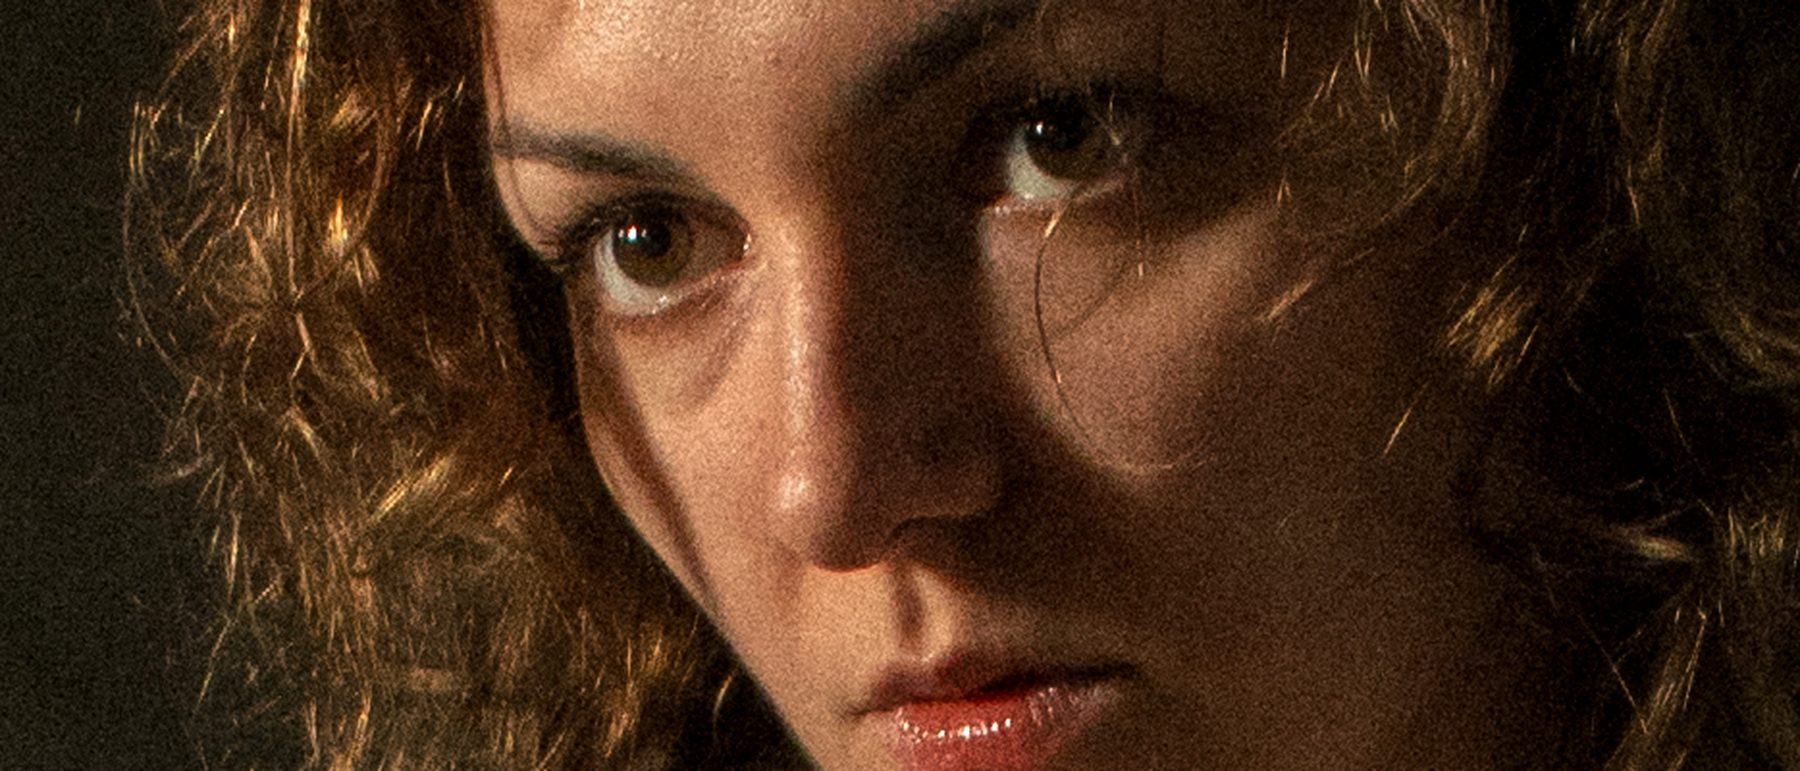
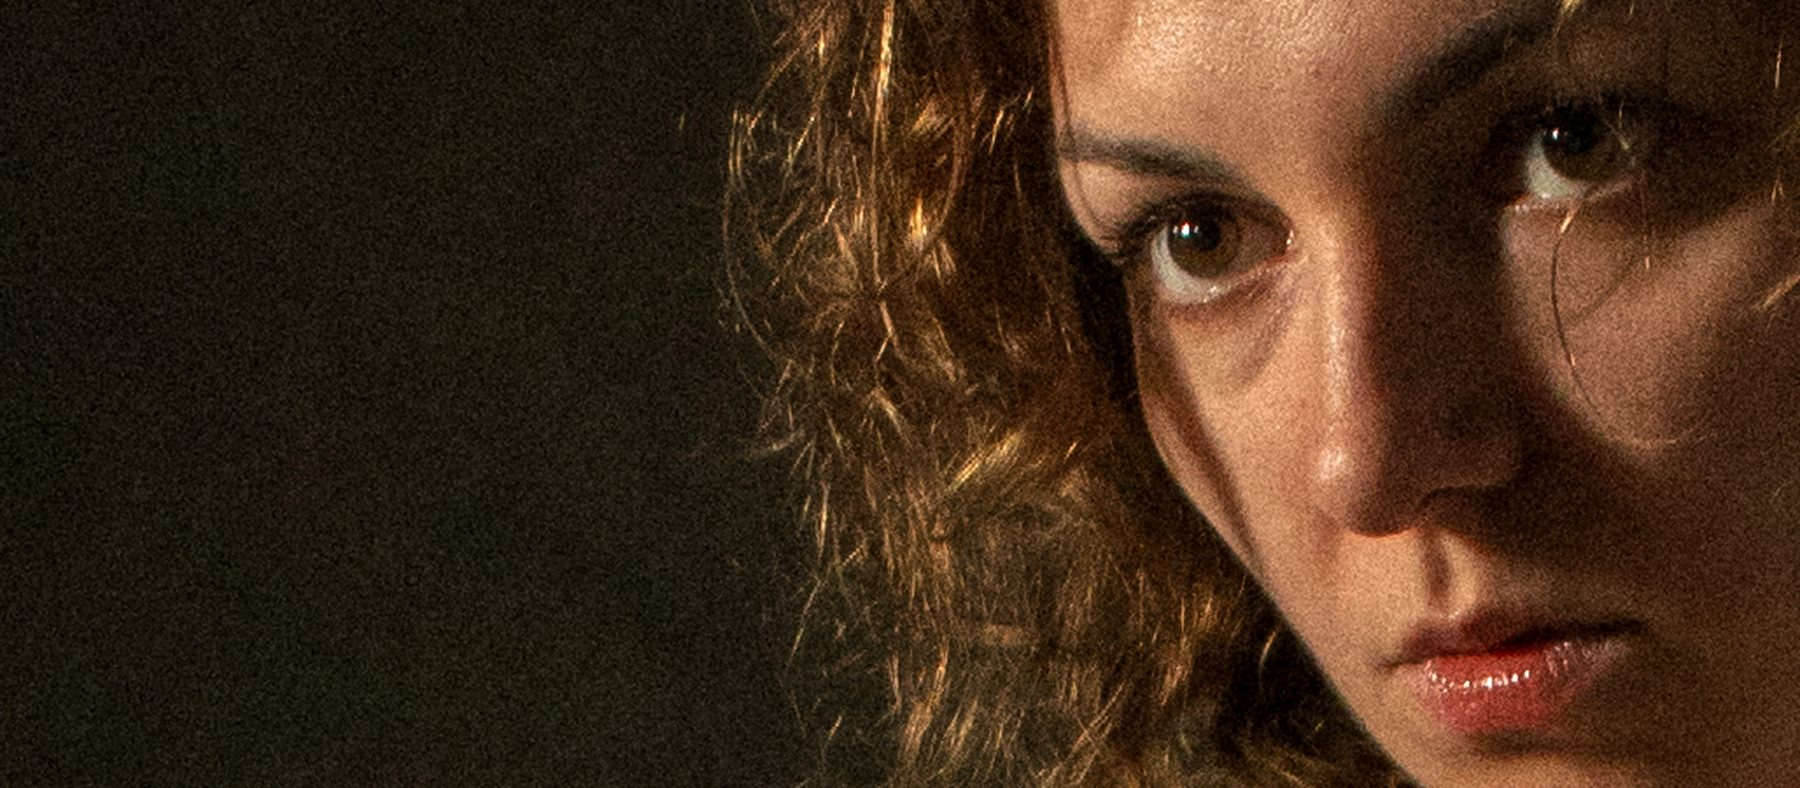
Grid preview name: bold 700, refit to the grid, portrait moved to the right edge so both eyes read through the letters

diff --git a/index.html b/index.html
@@ -316,7 +316,7 @@ html.swiss.g4 .hero .sw-name {
   grid-column: 1 / -1; align-self: center;
   margin: 56px 0 64px;
   font-family: var(--f-display); font-weight: 500;
-  font-size: min(252px, (100vw - 2 * var(--gutter)) * 0.2355); line-height: 0.86; letter-spacing: -0.035em;
+  font-size: min(239px, (100vw - 2 * var(--gutter)) * 0.2235); line-height: 0.86; letter-spacing: -0.04em;
   color: var(--text); white-space: nowrap;
 }
 /* The name as a window onto the portrait: the lit face shows through the letters, the dark room keeps them dark */
@@ -324,7 +324,8 @@ html.swiss.g4 .hero .sw-name {
   html.swiss.g4 .hero .sw-name {
     background-image: url(images/name-face.jpg);
     background-image: image-set(url(images/name-face.webp) type('image/webp'), url(images/name-face.jpg) type('image/jpeg'));
-    background-size: cover; background-position: 50% 0%; background-repeat: no-repeat;
+    font-weight: 700;
+    background-size: cover; background-position: 100% 0%; background-repeat: no-repeat;
     -webkit-background-clip: text; background-clip: text;
     color: transparent; -webkit-text-fill-color: transparent;
   }
